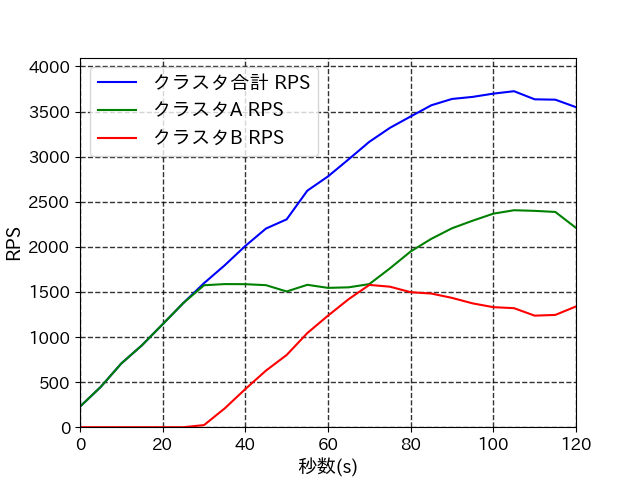
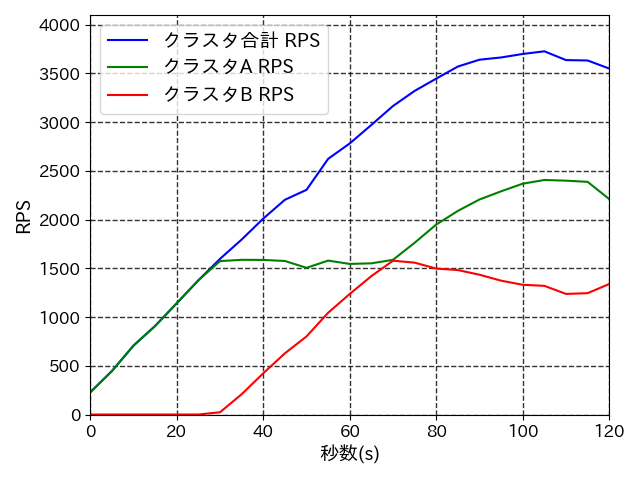
図形の更新

Changed region(s): [[0.0, 0.0312, 0.9688, 1.0]]

diff --git a/locust/graph/render_graph_of_rtt.py b/locust/graph/render_graph_of_rtt.py
@@ -1,0 +1,59 @@
+import csv
+import numpy as np
+import matplotlib.pyplot as plt
+import japanize_matplotlib
+import datetime
+
+FONT_SIZE = 14
+csv_path = './rtt_and_cpu.csv'
+
+rows = []
+x = []
+cluster_a_y = []
+cluster_b_y = []
+
+# csvファイルを読み込む
+with open(csv_path) as f:
+    reader = csv.reader(f)
+    for idx, row in enumerate(reader):
+        x.append(int(row[0]))
+        cluster_a_y.append(float(row[3]))
+        cluster_b_y.append(float(row[4]))
+
+fig = plt.figure()
+
+# ラベルを設定する
+plt.xlabel("秒数(s)", size=FONT_SIZE)
+plt.ylabel("RTT(ms)", size=FONT_SIZE)
+
+
+# 軸の範囲の設定
+plt.xlim(0, max(x))
+plt.ylim(0, max(cluster_b_y)*1.1)
+
+# print(f'最小値: {min(cluster_a_y)}')
+# print(f'最大値: {max(cluster_a_y)}')
+# print(f'平均値: {np.mean(cluster_a_y)}')
+
+# print(f'最小値: {min(cluster_b_y)}')
+# print(f'最大値: {max(cluster_b_y)}')
+# print(f'平均値: {np.mean(cluster_b_y)}')
+
+
+# 目盛の文字サイズを設定する
+plt.tick_params(labelsize=12)
+
+# 補助線を表示する
+plt.grid(which="major", axis="x", color="black", alpha=0.8,
+         linestyle="--", linewidth=1)
+plt.grid(which="major", axis="y", color="black", alpha=0.8,
+         linestyle="--", linewidth=1)
+
+# グラフを描画する
+plt.plot(x, cluster_a_y, color='green', label='クラスタA')
+plt.plot(x, cluster_b_y, color='red', label='クラスタB')
+plt.legend(loc='upper left', fontsize=FONT_SIZE)
+
+plt.tight_layout()
+# plt.show()
+plt.savefig('rtt.png')

diff --git a/locust/graph/render_graph_of_rps.py b/locust/graph/render_graph_of_rps.py
@@ -31,6 +31,7 @@ with open(csv_path) as f:
         time = datetime.datetime.strptime(
             row[0], '%Y-%m-%d %H:%M:%S') - start_time
         if time.seconds > 120:
+            print(row[0])
             break
         x.append(time.seconds)
         rps_y.append(float(row[1]))
@@ -66,5 +67,6 @@ fig.plot(x, cluster_b_y, color='red', label='クラスタB RPS')
 # ax2.plot(x, users_y, color='orange', label='ユーザー数')
 
 plt.legend(loc='upper left', fontsize=FONT_SIZE)
+plt.tight_layout()
 # plt.show()
 plt.savefig('rps.png')
